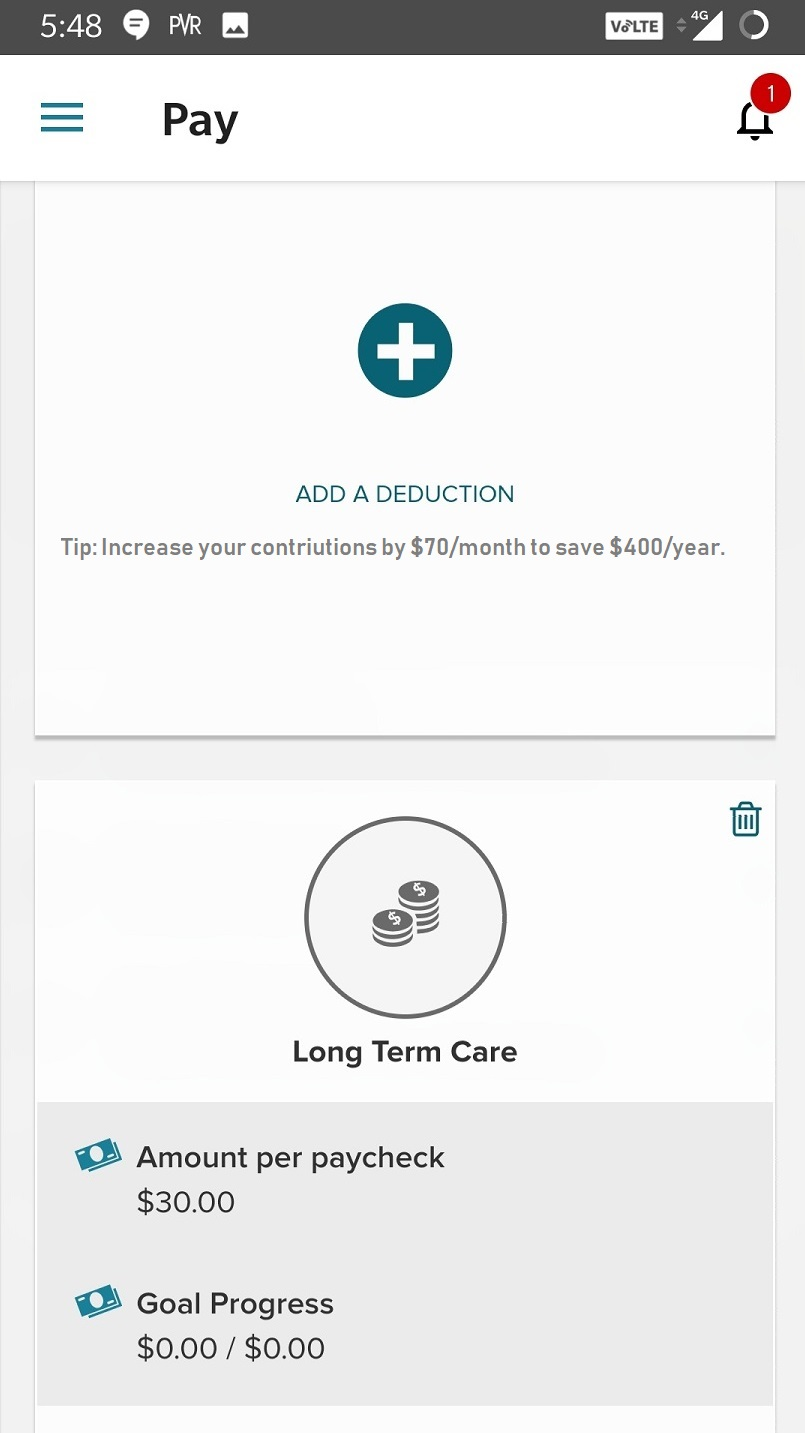
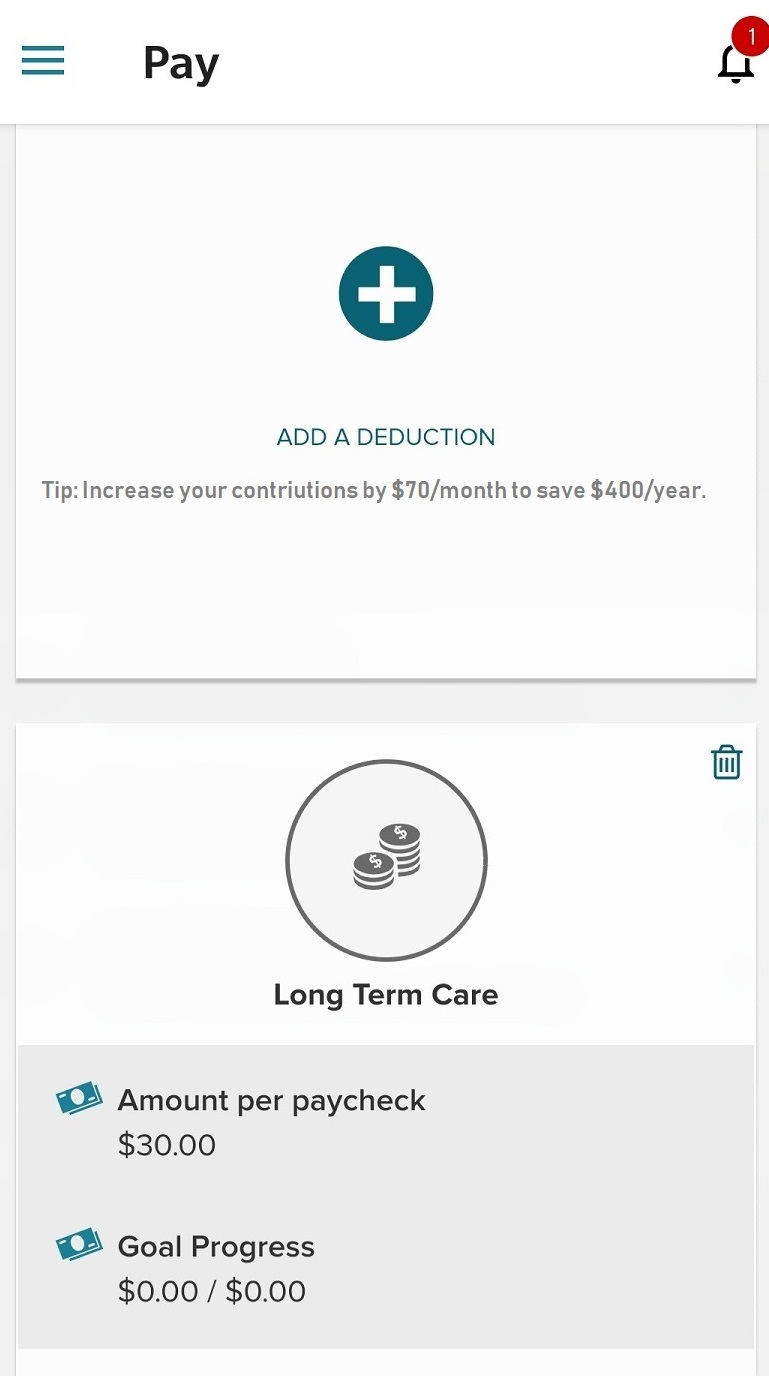
Deductions
Edit component width and format adjusted.
Removed mobile background image in the login page

diff --git a/src/app/pay/pay.component.html b/src/app/pay/pay.component.html
@@ -1,6 +1,8 @@
-<div class="container">
-    <img style="width:450px;height:500px;margin-left:350px;" src="assets/images/ded1-1.jpg"/>
-  <img routerLink='/deductions' style="width: 450px;height: 100px;margin-left: 350px;cursor: pointer;" src="assets/images/ded1-3.jpg"/>
-  <img style="width: 450px;height: 80px;margin-left: 350px;" src="assets/images/ded1-2.jpg"/>
-
+<div style="background-image: url('../../assets/images/Mobile.jpg');background-size: contain; margin-left: 100px;">
+<div class="container" style="margin-top:20px;">
+    <img style="width: 275px;height: 380px;margin-left: 315px; margin-top:75px;" src="assets/images/ded1-1.jpg"/>
+    
+   <img routerLink='/deductions' style="width: 275px;height: 40x;margin-left: 315px;cursor: pointer;" src="assets/images/ded1-3.jpg"/>
+   <img style="width: 275px;height: 30px;margin-left: 315px;" src="assets/images/ded1-2.jpg"/>  
+</div>
 </div>

diff --git a/src/app/login/login.component.css b/src/app/login/login.component.css
@@ -99,3 +99,9 @@ input[type="password"] {
     top: 10px;
     opacity: .8;
 }
+
+div{
+  background: 0%;
+  background-size: cover;
+  height: 1000px;
+}
